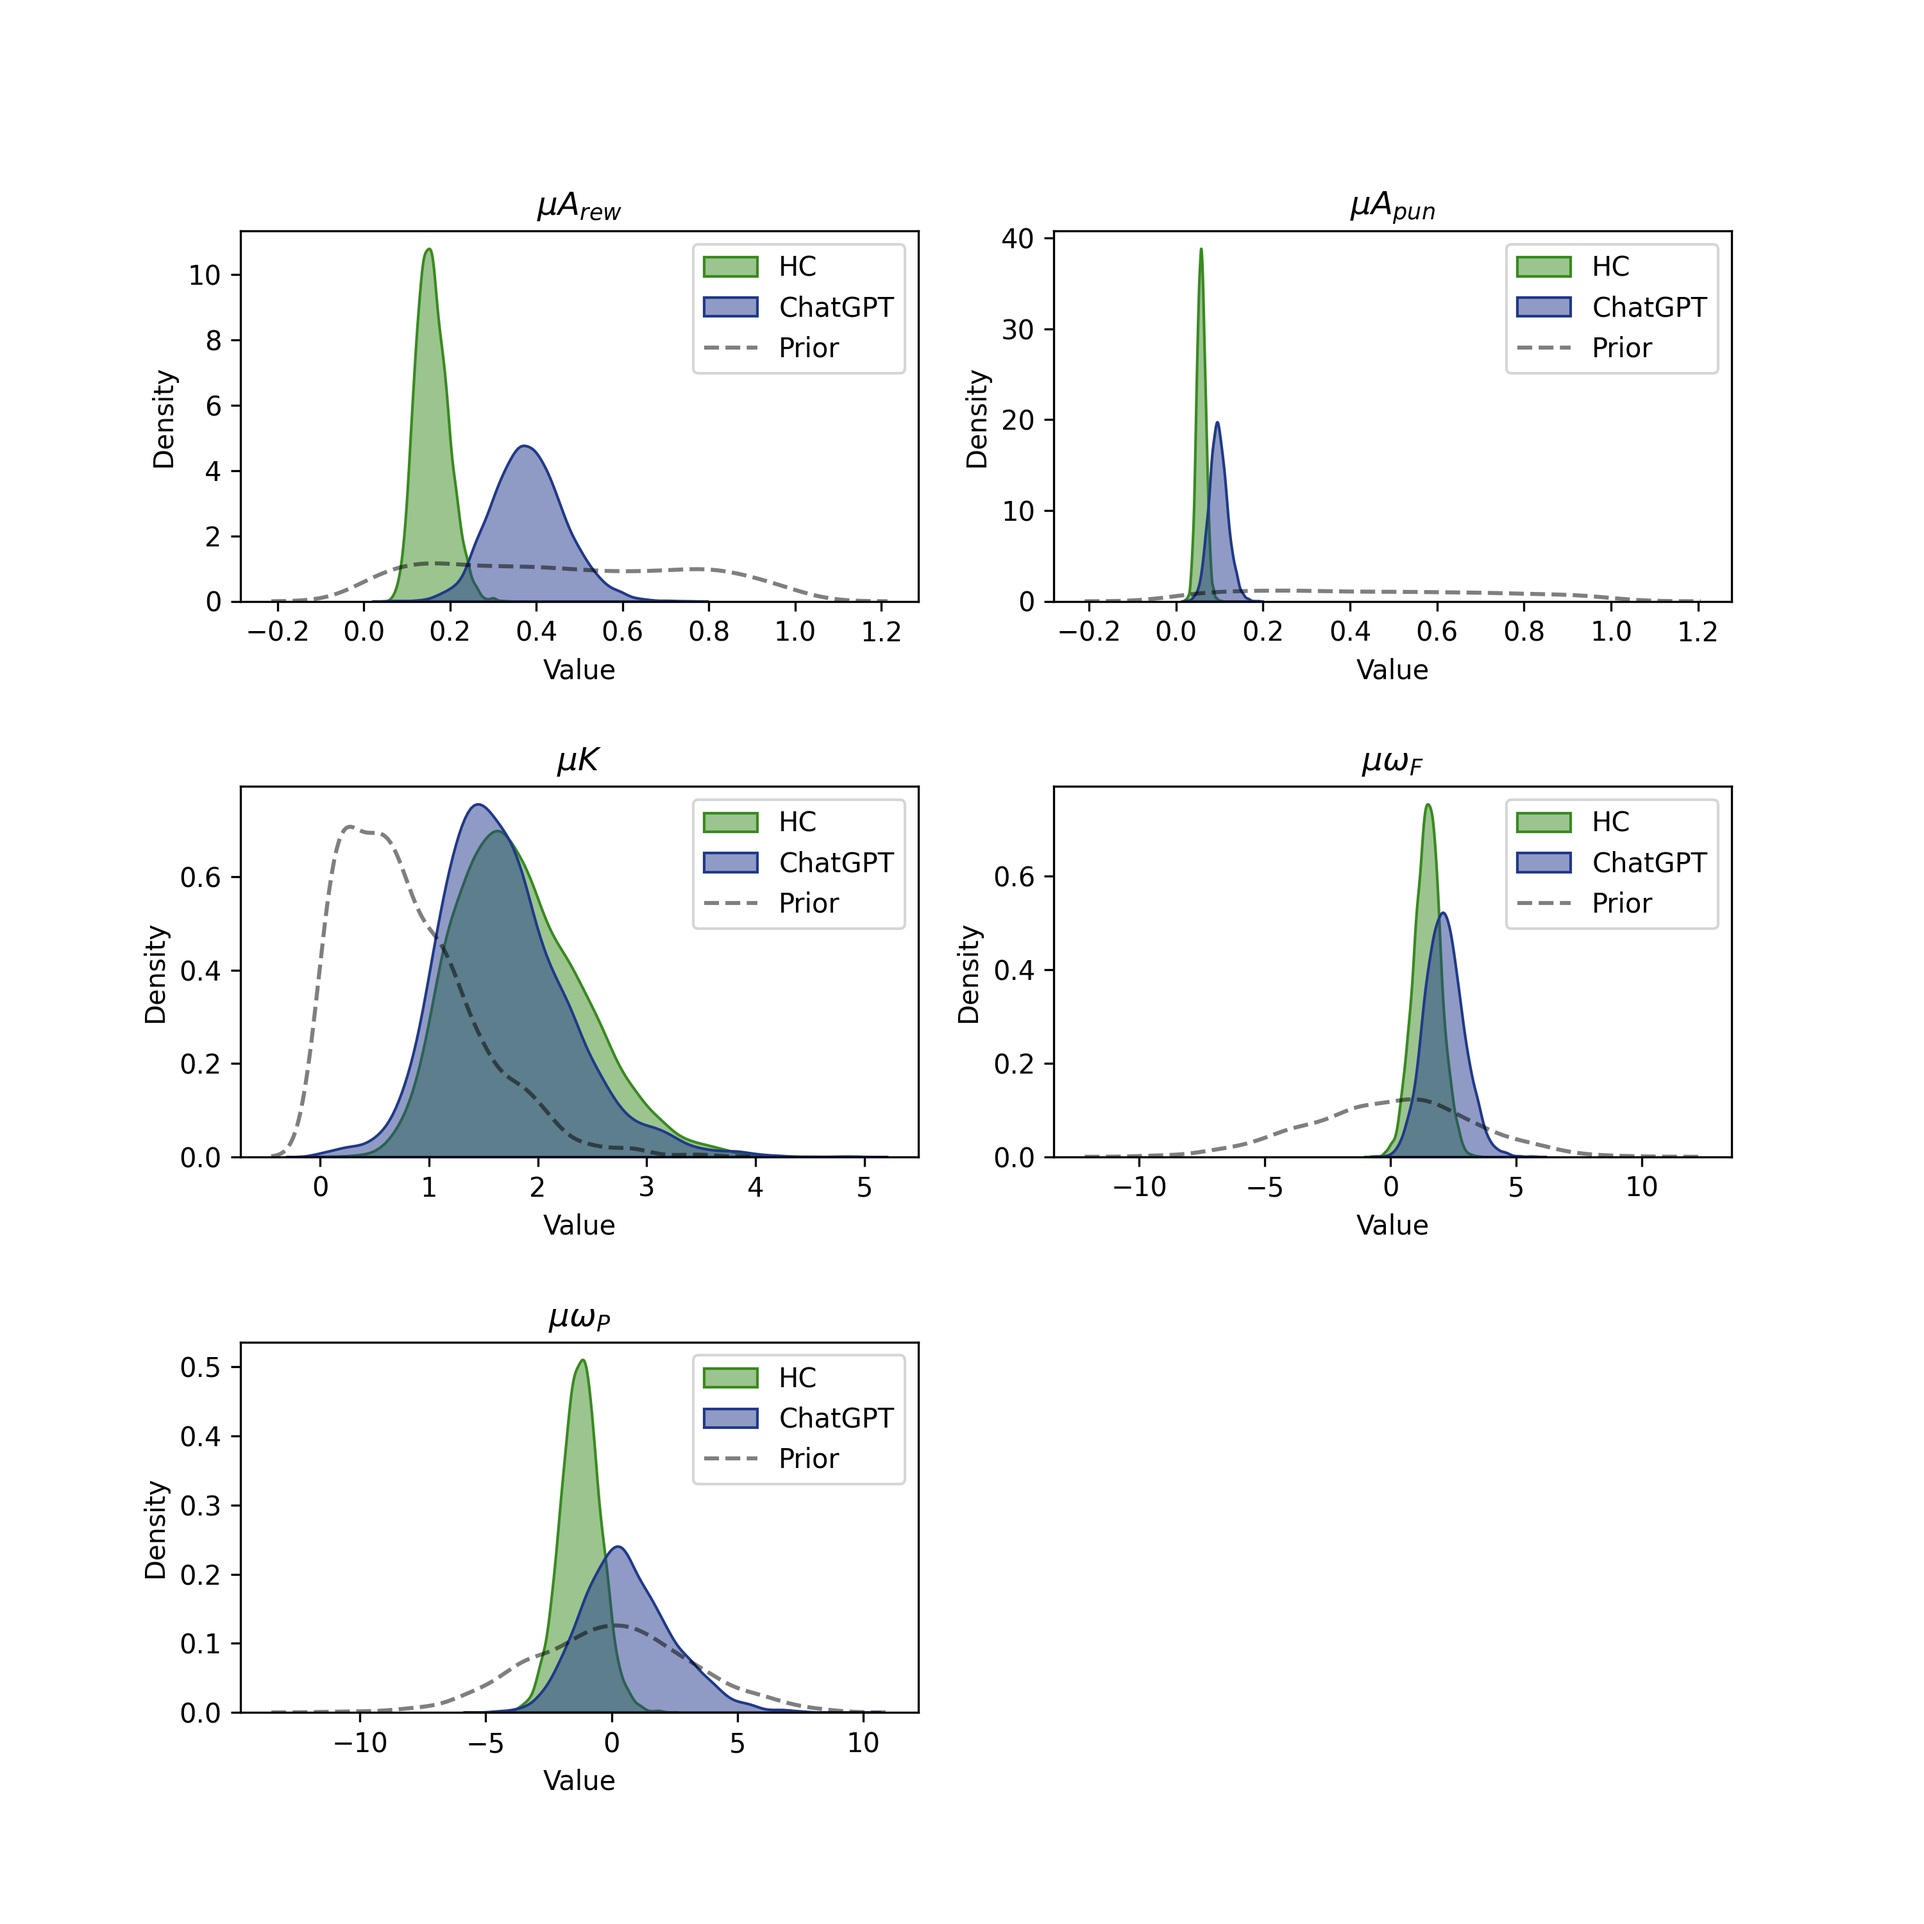
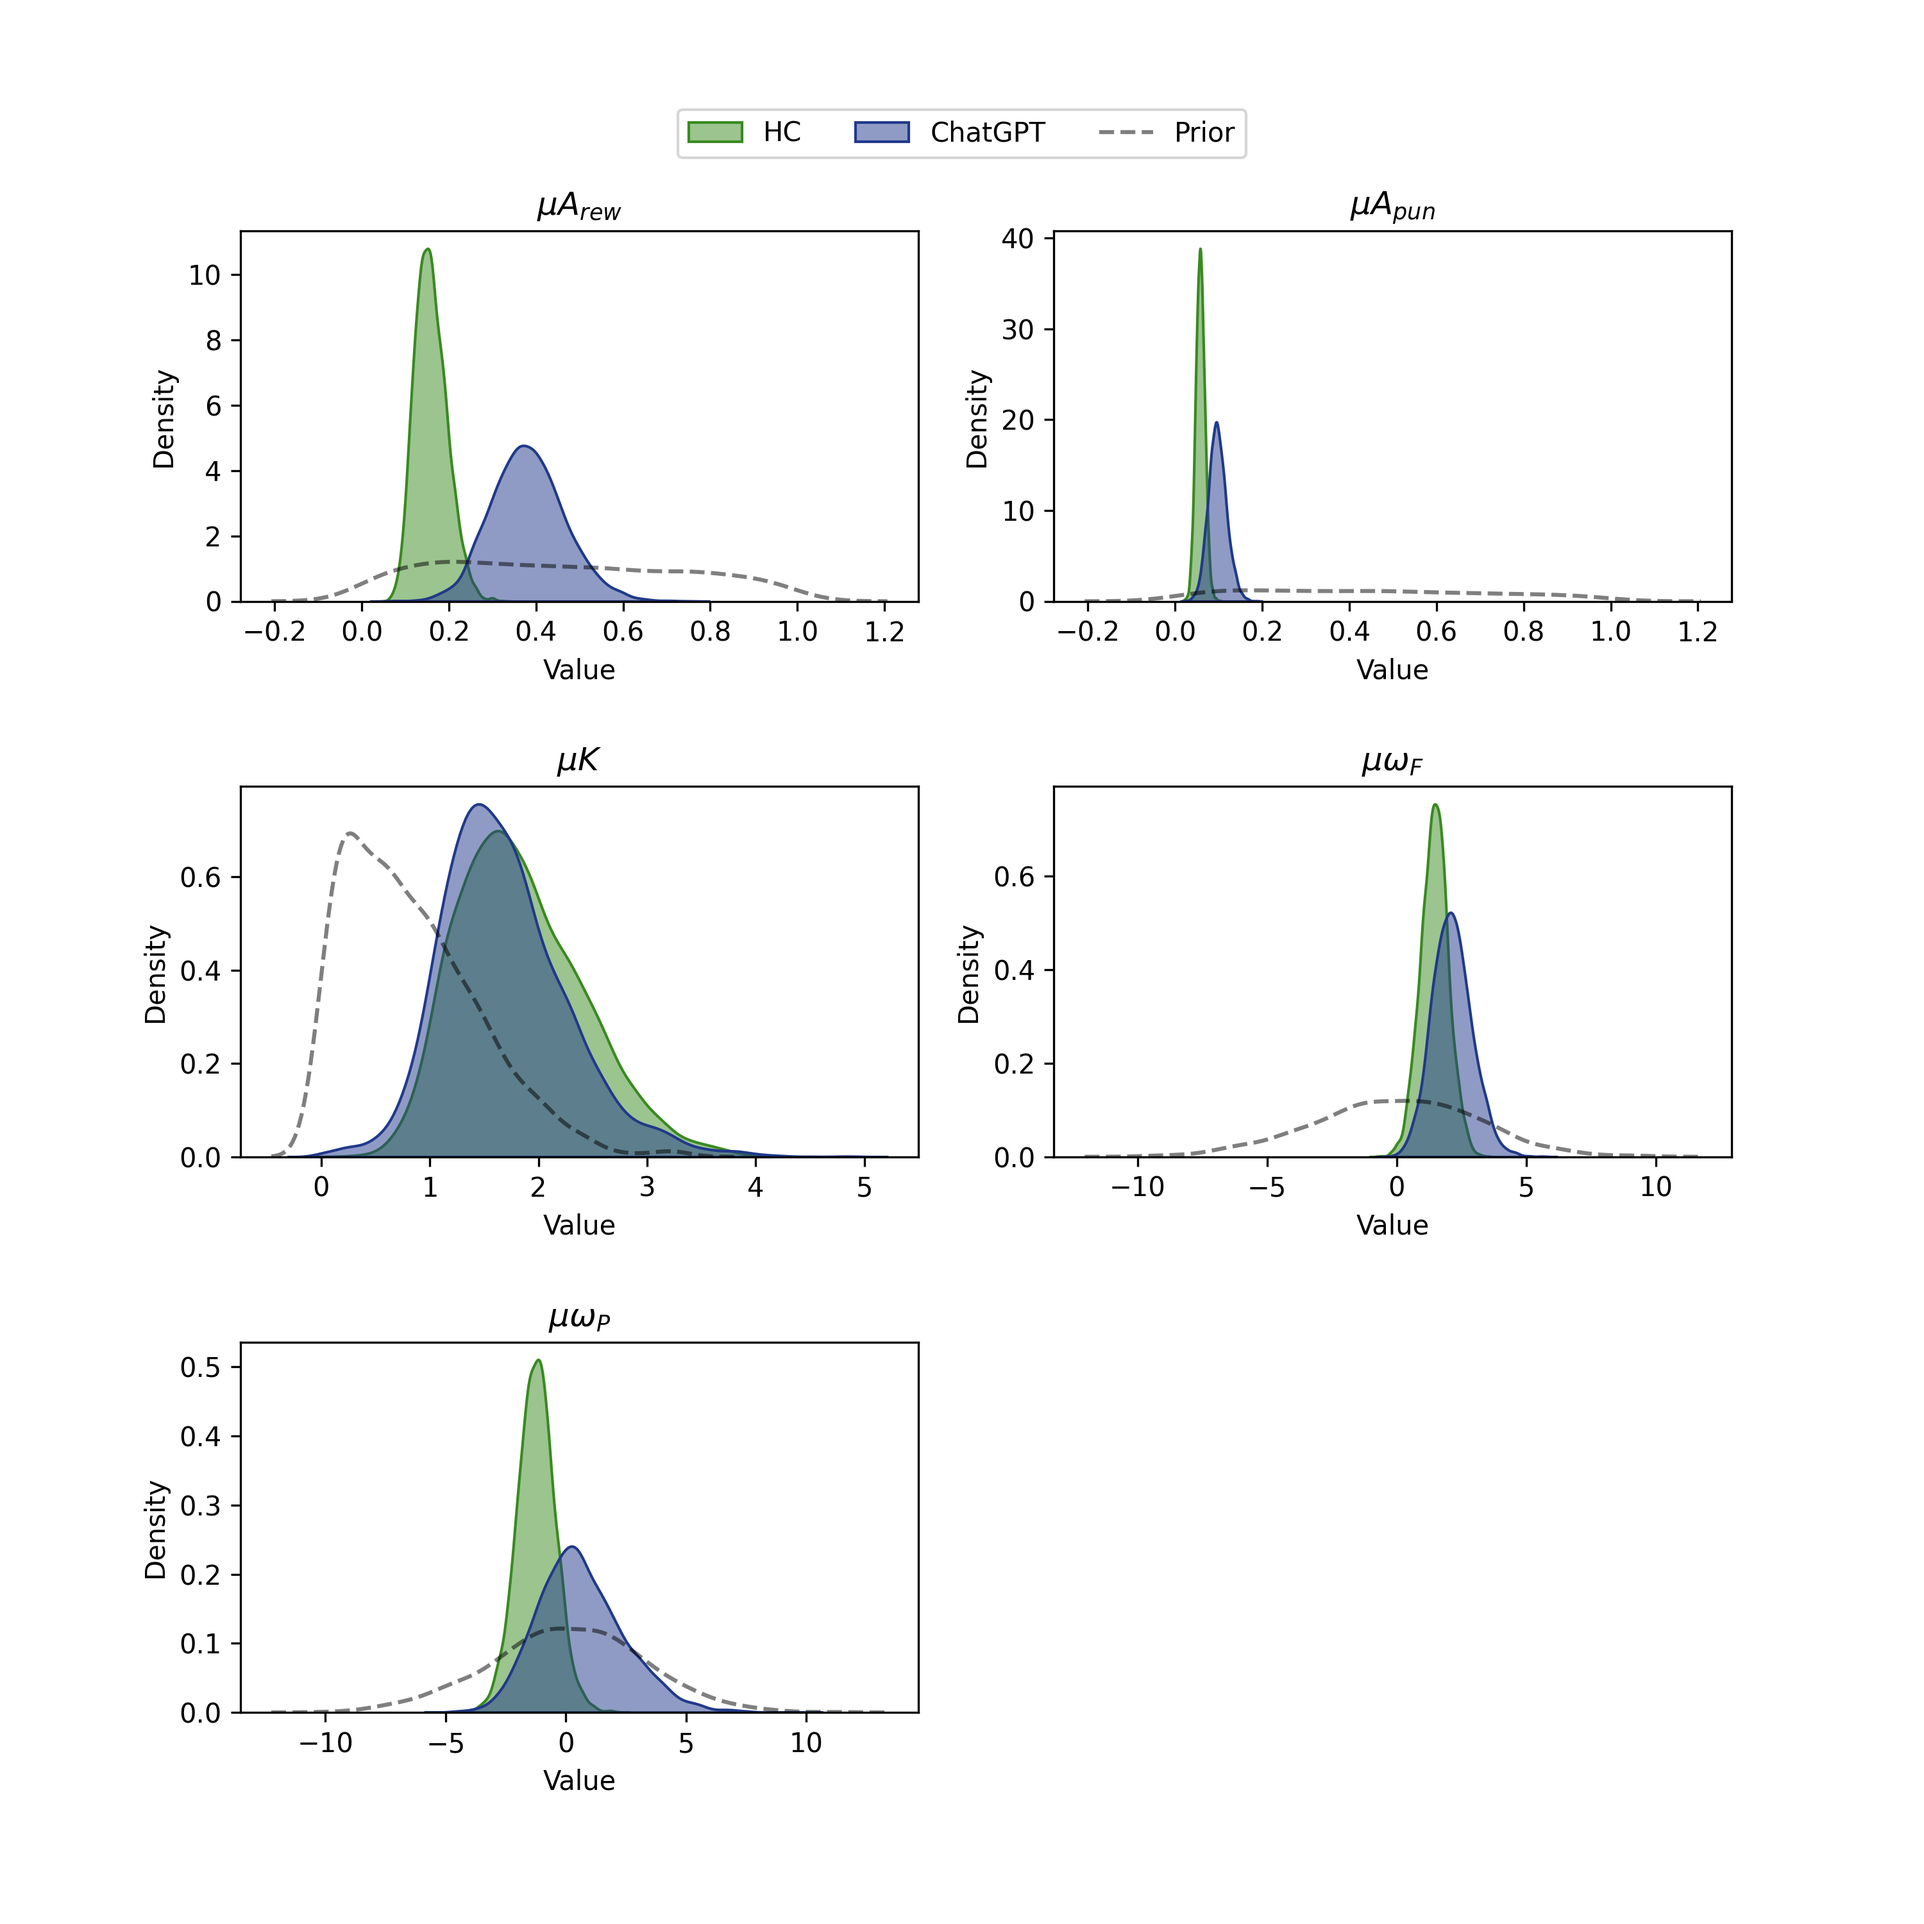
fixed legends

diff --git a/src/estimation/plot_estimates.py b/src/estimation/plot_estimates.py
@@ -4,6 +4,7 @@ import numpy as np
 import pandas as pd
 import seaborn as sns
 from scipy.stats import truncnorm, gamma, binom
+import matplotlib.lines as mlines
 
 def chance_level(n, alpha = 0.001, p = 0.5):
     k = binom.ppf(1-alpha, n, p)
@@ -15,6 +16,7 @@ def sample_truncated_normal(mean, sd, lower, upper, size=1000):
     a, b = (lower - mean) / sd, (upper - mean) / sd
     return truncnorm.rvs(a, b, loc=mean, scale=sd, size=size)
 
+
 def plot_posteriors(hc_data, gpt_data, colors=["#398A20", "#20398A"], 
                     parameters=[("mu_a_rew", "$\mu A_{rew}$"), ("mu_a_pun", "$\mu A_{pun}$"), 
                     ("mu_K", "$\mu K$"), ("mu_omega_f","$\mu \omega_F$"), ("mu_omega_p", "$\mu \omega_P$")], 
@@ -25,6 +27,7 @@ def plot_posteriors(hc_data, gpt_data, colors=["#398A20", "#20398A"],
     # Define prior distributions only if show_priors is True
     priors = None
     if show_priors:
+        # Assume sample_truncated_normal and other necessary functions are defined
         priors = {
             "mu_a_rew": lambda size: sample_truncated_normal(0, 1, 0, 1, size),
             "mu_a_pun": lambda size: sample_truncated_normal(0, 1, 0, 1, size),
@@ -36,68 +39,89 @@ def plot_posteriors(hc_data, gpt_data, colors=["#398A20", "#20398A"],
     total_subplots = len(axs.flatten())
     for i, (param_name, param_title) in enumerate(parameters):
         ax = axs[i // 2, i % 2]
-        sns.kdeplot(hc_data[param_name], ax=ax, fill=True, alpha=0.5, label="HC", color=colors[0])
-        sns.kdeplot(gpt_data[param_name], ax=ax, fill=True, alpha=0.5, label="ChatGPT", color=colors[1])
+        sns.kdeplot(hc_data[param_name], ax=ax, fill=True, alpha=0.5, color=colors[0])
+        sns.kdeplot(gpt_data[param_name], ax=ax, fill=True, alpha=0.5, color=colors[1])
 
-        # Plot prior if show_priors is True
         if show_priors and priors:
             prior_samples = priors[param_name](1000)
-            sns.kdeplot(prior_samples, ax=ax, color="k", linestyle="--", alpha=0.5, label="Prior")
+            sns.kdeplot(prior_samples, ax=ax, color="k", linestyle="--", alpha=0.5)
 
         ax.set_title(param_title)
         ax.set_xlabel("Value")
         ax.set_ylabel("Density")
-        ax.legend()
 
-    # Hide the last subplot if the number of parameters is less than the total subplots
+    # Create a single legend at the top of the figure
+    labels = ["HC", "ChatGPT"]
+    if show_priors:
+        labels.append("Prior")
+    fig.legend(labels, loc='upper center', ncol=len(labels), bbox_to_anchor=(0.5, 0.95), fancybox=True)
+
+    # Hide the last subplot if the number of parameters is less than total subplots
     if len(parameters) < total_subplots:
         axs[-1, -1].axis('off')
 
     if save_path is not None:
         plt.savefig(save_path, dpi=300)
 
-def plot_hc_posteriors(main_hc_sample, other_hc_samples, parameters=[("mu_a_rew", "$\mu A_{rew}$"), ("mu_a_pun", "$\mu A_{pun}$"), ("mu_K", "$\mu K$"), ("mu_theta","$\mu \\theta$"), ("mu_omega_f","$\mu \omega_F$"), ("mu_omega_p", "$\mu \omega_P$")], save_path=None, show_priors=False):
+
+def plot_hc_posteriors(main_hc_sample, other_hc_samples, 
+                       parameters=[("mu_a_rew", "$\mu A_{rew}$"), ("mu_a_pun", "$\mu A_{pun}$"), 
+                                   ("mu_K", "$\mu K$"), ("mu_omega_f","$\mu \omega_F$"), ("mu_omega_p", "$\mu \omega_P$")], 
+                       save_path=None, show_priors=False):
     fig, axs = plt.subplots(3, 2, figsize=(10, 10))
     plt.subplots_adjust(hspace=0.5)
 
-    # Define colors
     main_color = "#398A20"  # Green for the main dataframe
     other_color = "#D3D3D3"  # Light grey for other dataframes
 
-    # Define prior distributions only if show_priors is True
     priors = None
     if show_priors:
+        # Assume sample_truncated_normal and other necessary functions are defined
         priors = {
             "mu_a_rew": lambda size: sample_truncated_normal(0, 1, 0, 1, size),
             "mu_a_pun": lambda size: sample_truncated_normal(0, 1, 0, 1, size),
             "mu_K": lambda size: sample_truncated_normal(0, 1, 0, np.inf, size),
-            "mu_theta": lambda size: sample_truncated_normal(0, 1, 0, np.inf, size),
-            "mu_omega_f": lambda size: np.random.normal(0, 1, size),
-            "mu_omega_p": lambda size: np.random.normal(0, 1, size)
+            "mu_omega_f": lambda size: np.random.normal(0, 1/np.sqrt(0.1), size),
+            "mu_omega_p": lambda size: np.random.normal(0, 1/np.sqrt(0.1), size)
         }
 
+    total_parameters = len(parameters)
     for i, (param_name, param_title) in enumerate(parameters):
         ax = axs[i // 2, i % 2]
 
-        # Plot for other dataframes
         for other_df in other_hc_samples:
-            sns.kdeplot(other_df[param_name], ax=ax, fill=True, alpha=0.5, color=other_color, legend=False)
+            sns.kdeplot(other_df[param_name], ax=ax, fill=True, alpha=0.5, color=other_color)
 
-        # Plot prior if show_priors is True
         if show_priors and priors:
             prior_samples = priors[param_name](1000)
-            sns.kdeplot(prior_samples, ax=ax, color="k", linestyle="--", alpha=0.5, label="Prior")
-        
-                # Plot for main dataframe
-        sns.kdeplot(main_hc_sample[param_name], ax=ax, fill=True, alpha=0.5, label="Selected Group", color=main_color)
+            sns.kdeplot(prior_samples, ax=ax, color="k", linestyle="--", alpha=0.5)
+
+        sns.kdeplot(main_hc_sample[param_name], ax=ax, fill=True, alpha=0.5, color=main_color)
 
         ax.set_title(param_title)
         ax.set_xlabel("Value")
         ax.set_ylabel("Density")
-        ax.legend()
+
+    # Hide the last subplot if the number of parameters is odd
+    if total_parameters % 2 != 0:
+        axs[-1, -1].axis('off')
+
+    # Manually create legend entries
+    selected_sample_line = mlines.Line2D([], [], color=main_color, label='Selected Sample', linestyle='-', linewidth=2)
+    other_samples_line = mlines.Line2D([], [], color=other_color, label='Other Samples', linestyle='-', linewidth=2)
+    prior_line = mlines.Line2D([], [], color='k', label='Prior', linestyle='--', linewidth=2)
+
+    legend_handles = [selected_sample_line, other_samples_line]
+    if show_priors:
+        legend_handles.append(prior_line)
+
+    # Create a single legend for the entire figure
+    fig.legend(handles=legend_handles, loc='upper center', ncol=3, bbox_to_anchor=(0.5, 0.95), fancybox=True)
 
     if save_path is not None:
         plt.savefig(save_path, dpi=300)
+
+
 
 
 def plot_multiple_descriptive_adequacies(hc_data, gpt_data, colors = ["#52993C", "#3C5299"], save_path=None):
@@ -180,8 +204,7 @@ def main():
         hc_samples.append(pd.read_csv(file))
     
     # plot posteriors
-    #plot_hc_posteriors(hc_data_params, hc_samples, save_path=path.parents[2] / "src" / "estimation" / "plots" / "posterior_compare_hc")
-
+    plot_hc_posteriors(hc_data_params, hc_samples, save_path=path.parents[2] / "src" / "estimation" / "plots" / "posterior_compare_hc")
 
     # load posterior predictions data
     hc_data_pred = pd.read_csv(data_path / "pred_success_ahn_hc.csv")
